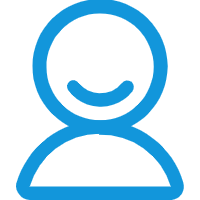
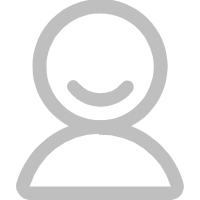
提交界面调整

Changed region(s): [[0.06, 0.0, 0.93, 1.0], [0.33, 0.39, 0.69, 0.54]]

diff --git a/pages/house/map.vue b/pages/house/map.vue
@@ -252,8 +252,6 @@ import {
 
   getCurrentLocation,
 
-  resolveCurrentProvince,
-
   setManualProvincePreference,
 
   clearManualProvincePreference,
